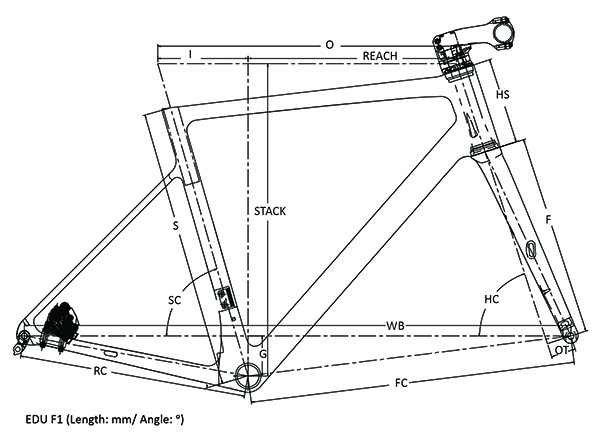
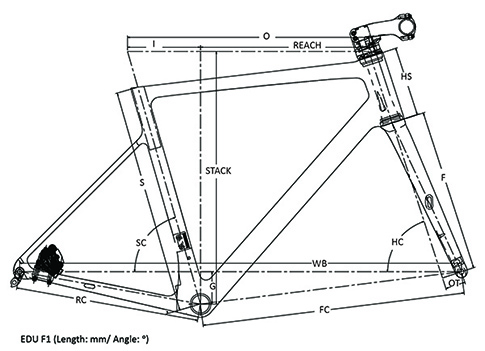
EDU F2 SPEC

diff --git a/Spec-EDU F2.html b/Spec-EDU F2.html
@@ -1,41 +1,41 @@
 ---
 layout: default
-title: ARGOS EV DISC Specifications
-description: framesets ARGOS EV DISC spec
+title: EDU F2 Specifications
+description: framesets EDU F2 spec
 menu: ['framesets', 'road']
 permalink: 
-date: 2019/11/13
+date: 2023/03/18
 ---
 
 <section id="content" class="shortcode-item spec-table">
     <div class="container">
         <div class="row">
             <div class="col-xs-12 col-md-7">
-                <h2>ARGOS EV DISC</h2>
-                <img src="images/portfolio/Spec/ARGOSEV-D.png" style="float:left;">
+                <h2>EDU F2</h2>
+                <img src="images/portfolio/Spec/EDU F2.png" style="float:left;">
             </div>
             <div class="col-xs-12 col-md-5">
                 <h2>Specifications</h2>
                 <table>
                     <tr>
                         <th>Feature</th>
-                        <td>Carbon monocoque aerodynamic road frame, disc brake, DI2 compatible. Include fork and seat post.</td>
+                        <td>Carbon SL road disc frame, fully internal cable routing, with fork. Front brake: flat mount disc; rear brake: flat mount disc. Tyre:700C*32mm.</td>
                     </tr>
                     <tr>
                         <th>Headtube</th>
-                        <td>57/57mm, 1 1/8"-1 1/2"</td>
+                        <td>57mm, 1 1/2"-1 1/2"</td>
                     </tr>
                     <tr>
                         <th>Seatpost</th>
-                        <td>AERO</td>
+                        <td>27.2</td>
                     </tr>
                     <tr>
                         <th>Size</th>
-                        <td>490/520/540/560/580mm</td>
+                        <td>XS(430)/S(460)/M(490)/L(520)/XL(550)mm</td>
                     </tr>
                     <tr>
                         <th>Weight (frame)</th>
-                        <td>1045g +/- 50g</td>
+                        <td>915g +/- 30g (490mm)</td>
                     </tr>
                     <tr>
                         <th>BB Type</th>
@@ -43,7 +43,7 @@ date: 2019/11/13
                     </tr>
                     <tr>
                         <th>Seattube</th>
-                        <td>AERO</td>
+                        <td>OVAL</td>
                     </tr>
                 </table>
             </div>
@@ -77,90 +77,90 @@ date: 2019/11/13
                 <th>Stack</th>
         </tr>
         <tr>
-                <th>490mm</th><!--/Size-->
-                <td>455</td><!--/S-->
-                <td>75.5∘</td><!--/SC-->
-                <td>508</td><!--/O-->
-                <td>104</td><!--/HS-->
-                <td>71.75∘</td><!--/HC-->
-                <td>370</td><!--/F-->
+                <th>430mm</th><!--/Size-->
+                <td>430</td><!--/S-->
+                <td>74.8∘</td><!--/SC-->
+                <td>516</td><!--/O-->
+                <td>120</td><!--/HS-->
+                <td>70.8∘</td><!--/HC-->
+                <td>380</td><!--/F-->
                 <td>45</td><!--/OT-->
-                <td>969.5</td><!--/WB-->
-                <td>572.1</td><!--/FC-->
-                <td>407</td><!--/RC-->
-                <td>74</td><!--/G-->
-                <td>376.3</td><!--/REACH-->
-                <td>510.1</td><!--/STACK-->
+                <td>986.1</td><!--/WB-->
+                <td>582.8</td><!--/FC-->
+                <td>415</td><!--/RC-->
+                <td>75</td><!--/G-->
+                <td>370.8</td><!--/REACH-->
+                <td>532.8</td><!--/STACK-->
+            </tr>
+            <tr>
+                <th>460mm</th><!--/Size-->
+                <td>460</td><!--/S-->
+                <td>74.3∘</td><!--/SC-->
+                <td>530</td><!--/O-->
+                <td>138</td><!--/HS-->
+                <td>71.7∘</td><!--/HC-->
+                <td>380</td><!--/F-->
+                <td>45</td><!--/OT-->
+                <td>987.8</td><!--/WB-->
+                <td>584.5</td><!--/FC-->
+                <td>415</td><!--/RC-->
+                <td>75</td><!--/G-->
+                <td>374.2</td><!--/REACH-->
+                <td>553.1</td><!--/STACK-->
+            </tr>
+            <tr>
+                <th>490mm</th><!--/Size-->
+                <td>490</td><!--/S-->
+                <td>73.9∘</td><!--/SC-->
+                <td>546</td><!--/O-->
+                <td>157</td><!--/HS-->
+                <td>72∘</td><!--/HC-->
+                <td>380</td><!--/F-->
+                <td>45</td><!--/OT-->
+                <td>998.6</td><!--/WB-->
+                <td>594.6</td><!--/FC-->
+                <td>415</td><!--/RC-->
+                <td>75</td><!--/G-->
+                <td>380.8</td><!--/REACH-->
+                <td>571.2</td><!--/STACK-->
             </tr>
             <tr>
                 <th>520mm</th><!--/Size-->
-                <td>480</td><!--/S-->
-                <td>74∘</td><!--/SC-->
-                <td>531</td><!--/O-->
-                <td>115</td><!--/HS-->
-                <td>72.5∘</td><!--/HC-->
-                <td>370</td><!--/F-->
-                <td>45</td><!--/OT-->
-                <td>970</td><!--/WB-->
-                <td>574.1</td><!--/FC-->
-                <td>407</td><!--/RC-->
-                <td>74</td><!--/G-->
-                <td>381</td><!--/REACH-->
-                <td>523</td><!--/STACK-->
-            </tr>
-            <tr>
-                <th>540mm</th><!--/Size-->
-                <td>486</td><!--/S-->
-                <td>74∘</td><!--/SC-->
-                <td>543</td><!--/O-->
-                <td>135</td><!--/HS-->
-                <td>72.5∘</td><!--/HC-->
-                <td>370</td><!--/F-->
-                <td>45</td><!--/OT-->
-                <td>981</td><!--/WB-->
-                <td>587.5</td><!--/FC-->
-                <td>407</td><!--/RC-->
-                <td>70</td><!--/G-->
-                <td>388</td><!--/REACH-->
-                <td>539</td><!--/STACK-->
-            </tr>
-            <tr>
-                <th>560mm</th><!--/Size-->
-                <td>518</td><!--/S-->
+                <td>520</td><!--/S-->
                 <td>73.5∘</td><!--/SC-->
-                <td>562</td><!--/O-->
-                <td>153</td><!--/HS-->
-                <td>73.5∘</td><!--/HC-->
-                <td>370</td><!--/F-->
+                <td>560</td><!--/O-->
+                <td>172.6</td><!--/HS-->
+                <td>73∘</td><!--/HC-->
+                <td>380</td><!--/F-->
                 <td>45</td><!--/OT-->
-                <td>989.1</td><!--/WB-->
-                <td>592.6</td><!--/FC-->
-                <td>407</td><!--/RC-->
-                <td>70</td><!--/G-->
-                <td>396.5</td><!--/REACH-->
-                <td>558.7</td><!--/STACK-->
+                <td>998.4</td><!--/WB-->
+                <td>594.4</td><!--/FC-->
+                <td>415</td><!--/RC-->
+                <td>75</td><!--/G-->
+                <td>385</td><!--/REACH-->
+                <td>589.3</td><!--/STACK-->
             </tr>
             <tr>
-                <th>580mm</th><!--/Size-->
-                <td>537</td><!--/S-->
-                <td>73.5∘</td><!--/SC-->
-                <td>577</td><!--/O-->
-                <td>180</td><!--/HS-->
-                <td>73.5∘</td><!--/HC-->
-                <td>370</td><!--/F-->
+                <th>550mm</th><!--/Size-->
+                <td>550</td><!--/S-->
+                <td>73∘</td><!--/SC-->
+                <td>580</td><!--/O-->
+                <td>195</td><!--/HS-->
+                <td>73∘</td><!--/HC-->
+                <td>380</td><!--/F-->
                 <td>45</td><!--/OT-->
-                <td>1004</td><!--/WB-->
-                <td>607.2</td><!--/FC-->
-                <td>407</td><!--/RC-->
-                <td>70</td><!--/G-->
-                <td>403.8</td><!--/REACH-->
-                <td>584.6</td><!--/STACK-->
+                <td>1012.9</td><!--/WB-->
+                <td>608.8</td><!--/FC-->
+                <td>415</td><!--/RC-->
+                <td>75</td><!--/G-->
+                <td>392.9</td><!--/REACH-->
+                <td>610.6</td><!--/STACK-->
             </tr>
         
         </table>
     </div>
     <div class="col-xs-12 col-md-5">
-        <img src="images/portfolio/geometry/ARGOSEV-D- Geometry.jpg" style="float:right;">
+        <img src="images/portfolio/geometry/EDUF2- Geometry.jpg" style="float:right;">
         </div>
         </div><!--row--> 
     </div><!--container-->
